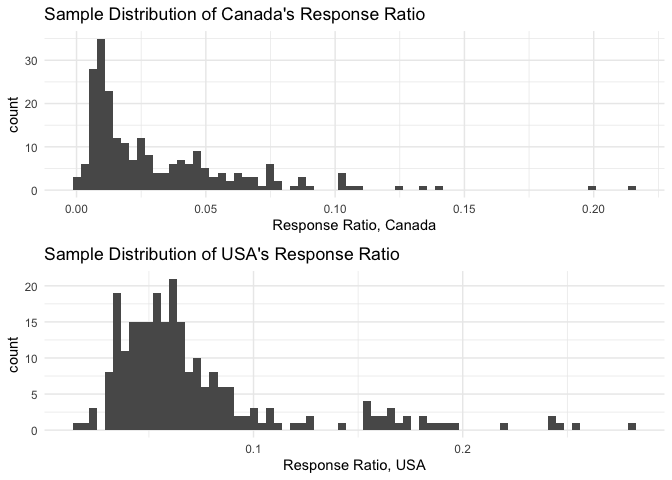
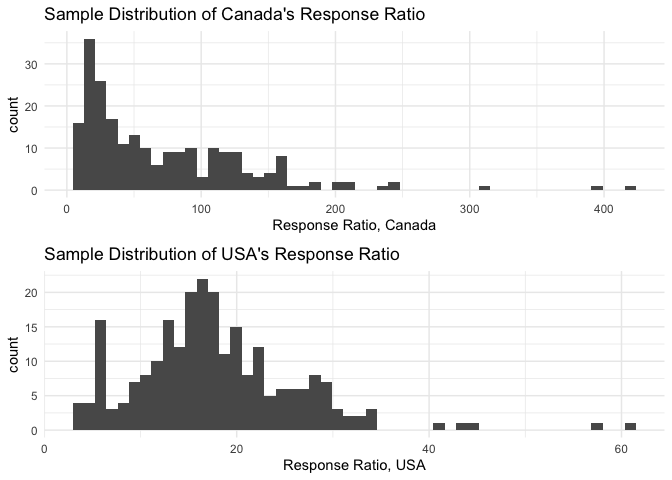
Update wording based on flipped response ratio

diff --git a/EDA_analysis.md b/EDA_analysis.md
@@ -34,15 +34,25 @@ Response Ratio = \# of daily new tests / \# of daily new cases
 Below we have shown the number of observations, mean, median and
 standard deviation of response ratio (Table 1).
 
-We can see from the table that the mean response ratio for Canada is
-higher than the median, so its distribution seems to be right skewed.
 The mean and median ratio for the USA are close to each other, which
-suggests that the ratio for the USA is normally distributed.
+suggests that the ratio for the USA is normally distributed. The mean
+response ratio for Canada is higher than the median, so its distribution
+seems to be right skewed. This suggests that the true population of
+response ratio may not be normally distributed. However, since the
+sample size is well above 30, the large enough sample size assumption
+under the Central Limit Theorem is met. Therefore the sample observation
+does not need to come from a normally distributed population. Because
+all conditions of Central Limit Theorem have been met, we decided that
+it is safe to use mean response ratio as test statistic for our
+hypothesis test.
 
 The standard deviation of Canada is quite large, compared with the mean
 and median ratio. It indicates that the response ratio in Canada is more
 widely spread out. The standard deviation of the USA is a lot smaller,
-which suggests that more of the ratio is clustered around the mean.
+which suggests that more of the ratio is clustered around the mean. It
+should be noted that the standard deviation might have been affected by
+data in the early stage of the pandemic, as tests were not fully
+developed and new cases were only detected within a few communities.
 
 ``` r
 covid_all_country <-  read_csv("data/owid-covid-data.csv", guess_max = 5000)
